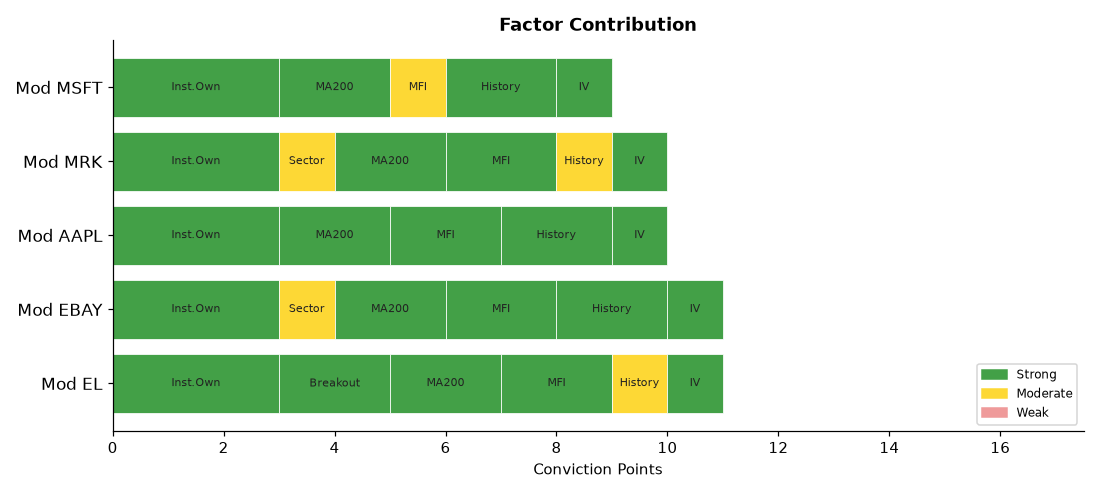
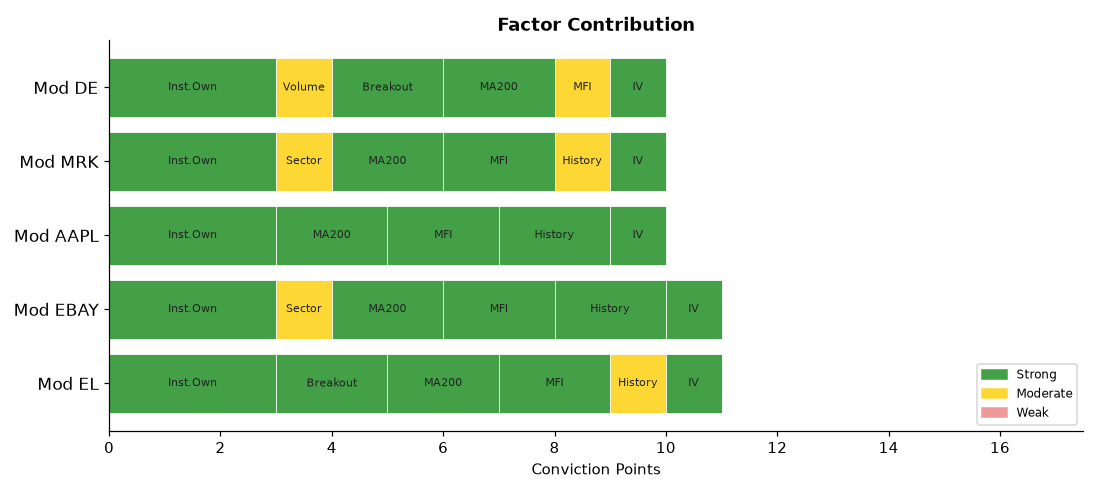
deploy: b7fadf5b06deb90e7ebb92f278722414bdd9750d

diff --git a/index.html b/index.html
@@ -4,7 +4,7 @@
   <meta charset="UTF-8">
   <meta name="viewport" content="width=device-width,initial-scale=1">
   <meta http-equiv="Cache-Control" content="no-cache,no-store,must-revalidate">
-  <title>Stock Breakout Screener — 2026-08-21 19:21</title>
+  <title>Stock Breakout Screener — 2026-08-21 20:13</title>
   <style>
     *{box-sizing:border-box;margin:0;padding:0}
     body{font-family:'Segoe UI',Arial,sans-serif;background:#f0f2f5;
@@ -34,7 +34,7 @@
 
 <div class="hdr">
   <h1>📈 Stock Breakout Screener</h1>
-  <p>Updated: 2026-08-21 19:21 UTC &nbsp;·&nbsp; Phase: Regular Market Hours &nbsp;·&nbsp;
+  <p>Updated: 2026-08-21 20:13 UTC &nbsp;·&nbsp; Phase: After-Hours (4:00–8:00 PM ET) &nbsp;·&nbsp;
      129 stocks screened &nbsp;·&nbsp; Top 5 by conviction score</p>
 </div>
 
@@ -69,7 +69,7 @@
             </span>
           </div>
           <ul style="margin:0;padding-left:18px;font-size:13px;
-                     color:#333;line-height:1.8"><li style="margin:5px 0"><span style="background:#ffebee;color:#b71c1c;padding:2px 7px;border-radius:4px;font-size:11px;">❌</span> Volume: <b>0.9× average</b> — Above-average activity</li><li style="margin:5px 0"><span style="background:#e8f5e9;color:#2e7d32;padding:2px 7px;border-radius:4px;font-size:11px;">✅</span> Candle: close <b>$100.27</b> vs open <b>$96.75</b> (+3.6%) — regular market close</li><li style="margin:5px 0"><span style="background:#e8f5e9;color:#2e7d32;padding:2px 7px;border-radius:4px;font-size:11px;">✅</span> 200-Day MA: price <b>$100.27</b> vs MA <b>$83.92</b> — <b>✅ Above</b> long-term trend</li><li style="margin:5px 0"><span style="background:#e8f5e9;color:#2e7d32;padding:2px 7px;border-radius:4px;font-size:11px;">✅</span> Inst. ownership: <b>96.3%</b> · MFI: <b>63.4</b> · Market cap: <b>$36.3B</b></li><li style="margin:5px 0"><span style="background:#fffde7;color:#f57f17;padding:2px 7px;border-radius:4px;font-size:11px;">⚠</span> Last similar breakout: <b>Aug 19, 2026</b> → <b>+2.3%</b> over 10 trading days</li></ul>
+                     color:#333;line-height:1.8"><li style="margin:5px 0"><span style="background:#ffebee;color:#b71c1c;padding:2px 7px;border-radius:4px;font-size:11px;">❌</span> Volume: <b>1.1× average</b> — Above-average activity</li><li style="margin:5px 0"><span style="background:#e8f5e9;color:#2e7d32;padding:2px 7px;border-radius:4px;font-size:11px;">✅</span> Candle: close <b>$101.94</b> vs open <b>$96.75</b> (+5.4%) — regular market close</li><li style="margin:5px 0"><span style="background:#e8f5e9;color:#2e7d32;padding:2px 7px;border-radius:4px;font-size:11px;">✅</span> 200-Day MA: price <b>$101.94</b> vs MA <b>$83.93</b> — <b>✅ Above</b> long-term trend</li><li style="margin:5px 0"><span style="background:#e8f5e9;color:#2e7d32;padding:2px 7px;border-radius:4px;font-size:11px;">✅</span> Inst. ownership: <b>96.3%</b> · MFI: <b>64.1</b> · Market cap: <b>N/A</b></li><li style="margin:5px 0"><span style="background:#fffde7;color:#f57f17;padding:2px 7px;border-radius:4px;font-size:11px;">⚠</span> Last similar breakout: <b>Aug 19, 2026</b> → <b>+4.0%</b> over 10 trading days</li></ul>
         </div>
         <div style="background:#fff;border:1px solid #ddd;border-radius:10px;
                     padding:16px 20px;margin-bottom:12px;
@@ -86,7 +86,7 @@
             </span>
           </div>
           <ul style="margin:0;padding-left:18px;font-size:13px;
-                     color:#333;line-height:1.8"><li style="margin:5px 0"><span style="background:#ffebee;color:#b71c1c;padding:2px 7px;border-radius:4px;font-size:11px;">❌</span> Volume: <b>0.6× average</b> — Above-average activity</li><li style="margin:5px 0"><span style="background:#ffebee;color:#b71c1c;padding:2px 7px;border-radius:4px;font-size:11px;">❌</span> Candle: close <b>$104.68</b> vs open <b>$105.62</b> (-0.9%) — regular market close</li><li style="margin:5px 0"><span style="background:#e8f5e9;color:#2e7d32;padding:2px 7px;border-radius:4px;font-size:11px;">✅</span> 200-Day MA: price <b>$104.68</b> vs MA <b>$104.04</b> — <b>✅ Above</b> long-term trend</li><li style="margin:5px 0"><span style="background:#e8f5e9;color:#2e7d32;padding:2px 7px;border-radius:4px;font-size:11px;">✅</span> Inst. ownership: <b>95.9%</b> · MFI: <b>62.3</b> · Market cap: <b>$46.6B</b></li><li style="margin:5px 0"><span style="background:#e8f5e9;color:#2e7d32;padding:2px 7px;border-radius:4px;font-size:11px;">✅</span> Last similar breakout: <b>Apr 30, 2026</b> → <b>+9.4%</b> over 10 trading days</li></ul>
+                     color:#333;line-height:1.8"><li style="margin:5px 0"><span style="background:#ffebee;color:#b71c1c;padding:2px 7px;border-radius:4px;font-size:11px;">❌</span> Volume: <b>0.8× average</b> — Above-average activity</li><li style="margin:5px 0"><span style="background:#ffebee;color:#b71c1c;padding:2px 7px;border-radius:4px;font-size:11px;">❌</span> Candle: close <b>$104.13</b> vs open <b>$105.62</b> (-1.4%) — regular market close</li><li style="margin:5px 0"><span style="background:#e8f5e9;color:#2e7d32;padding:2px 7px;border-radius:4px;font-size:11px;">✅</span> 200-Day MA: price <b>$104.13</b> vs MA <b>$104.03</b> — <b>✅ Above</b> long-term trend</li><li style="margin:5px 0"><span style="background:#e8f5e9;color:#2e7d32;padding:2px 7px;border-radius:4px;font-size:11px;">✅</span> Inst. ownership: <b>95.9%</b> · MFI: <b>62.9</b> · Market cap: <b>$46.3B</b></li><li style="margin:5px 0"><span style="background:#e8f5e9;color:#2e7d32;padding:2px 7px;border-radius:4px;font-size:11px;">✅</span> Last similar breakout: <b>Apr 30, 2026</b> → <b>+9.4%</b> over 10 trading days</li></ul>
         </div>
         <div style="background:#fff;border:1px solid #ddd;border-radius:10px;
                     padding:16px 20px;margin-bottom:12px;
@@ -103,7 +103,7 @@
             </span>
           </div>
           <ul style="margin:0;padding-left:18px;font-size:13px;
-                     color:#333;line-height:1.8"><li style="margin:5px 0"><span style="background:#ffebee;color:#b71c1c;padding:2px 7px;border-radius:4px;font-size:11px;">❌</span> Volume: <b>0.7× average</b> — Above-average activity</li><li style="margin:5px 0"><span style="background:#ffebee;color:#b71c1c;padding:2px 7px;border-radius:4px;font-size:11px;">❌</span> Candle: close <b>$309.26</b> vs open <b>$312.05</b> (-0.9%) — regular market close</li><li style="margin:5px 0"><span style="background:#e8f5e9;color:#2e7d32;padding:2px 7px;border-radius:4px;font-size:11px;">✅</span> 200-Day MA: price <b>$309.26</b> vs MA <b>$288.65</b> — <b>✅ Above</b> long-term trend</li><li style="margin:5px 0"><span style="background:#e8f5e9;color:#2e7d32;padding:2px 7px;border-radius:4px;font-size:11px;">✅</span> Inst. ownership: <b>66.4%</b> · MFI: <b>61.2</b> · Market cap: <b>$4514.3B</b></li><li style="margin:5px 0"><span style="background:#e8f5e9;color:#2e7d32;padding:2px 7px;border-radius:4px;font-size:11px;">✅</span> Last similar breakout: <b>Jun 26, 2026</b> → <b>+11.8%</b> over 10 trading days</li></ul>
+                     color:#333;line-height:1.8"><li style="margin:5px 0"><span style="background:#ffebee;color:#b71c1c;padding:2px 7px;border-radius:4px;font-size:11px;">❌</span> Volume: <b>0.8× average</b> — Above-average activity</li><li style="margin:5px 0"><span style="background:#ffebee;color:#b71c1c;padding:2px 7px;border-radius:4px;font-size:11px;">❌</span> Candle: close <b>$309.35</b> vs open <b>$312.05</b> (-0.9%) — regular market close</li><li style="margin:5px 0"><span style="background:#e8f5e9;color:#2e7d32;padding:2px 7px;border-radius:4px;font-size:11px;">✅</span> 200-Day MA: price <b>$309.35</b> vs MA <b>$288.65</b> — <b>✅ Above</b> long-term trend</li><li style="margin:5px 0"><span style="background:#e8f5e9;color:#2e7d32;padding:2px 7px;border-radius:4px;font-size:11px;">✅</span> Inst. ownership: <b>66.4%</b> · MFI: <b>60.3</b> · Market cap: <b>$4514.7B</b></li><li style="margin:5px 0"><span style="background:#e8f5e9;color:#2e7d32;padding:2px 7px;border-radius:4px;font-size:11px;">✅</span> Last similar breakout: <b>Jun 26, 2026</b> → <b>+11.8%</b> over 10 trading days</li></ul>
         </div>
         <div style="background:#fff;border:1px solid #ddd;border-radius:10px;
                     padding:16px 20px;margin-bottom:12px;
@@ -120,7 +120,7 @@
             </span>
           </div>
           <ul style="margin:0;padding-left:18px;font-size:13px;
-                     color:#333;line-height:1.8"><li style="margin:5px 0"><span style="background:#ffebee;color:#b71c1c;padding:2px 7px;border-radius:4px;font-size:11px;">❌</span> Volume: <b>1.0× average</b> — Above-average activity</li><li style="margin:5px 0"><span style="background:#ffebee;color:#b71c1c;padding:2px 7px;border-radius:4px;font-size:11px;">❌</span> Candle: close <b>$153.31</b> vs open <b>$149.12</b> (+2.8%) — regular market close</li><li style="margin:5px 0"><span style="background:#e8f5e9;color:#2e7d32;padding:2px 7px;border-radius:4px;font-size:11px;">✅</span> 200-Day MA: price <b>$153.31</b> vs MA <b>$120.66</b> — <b>✅ Above</b> long-term trend</li><li style="margin:5px 0"><span style="background:#e8f5e9;color:#2e7d32;padding:2px 7px;border-radius:4px;font-size:11px;">✅</span> Inst. ownership: <b>82.7%</b> · MFI: <b>77.0</b> · Market cap: <b>$378.2B</b></li><li style="margin:5px 0"><span style="background:#fffde7;color:#f57f17;padding:2px 7px;border-radius:4px;font-size:11px;">⚠</span> Last similar breakout: <b>Aug 19, 2026</b> → <b>+0.7%</b> over 10 trading days</li></ul>
+                     color:#333;line-height:1.8"><li style="margin:5px 0"><span style="background:#ffebee;color:#b71c1c;padding:2px 7px;border-radius:4px;font-size:11px;">❌</span> Volume: <b>1.1× average</b> — Above-average activity</li><li style="margin:5px 0"><span style="background:#ffebee;color:#b71c1c;padding:2px 7px;border-radius:4px;font-size:11px;">❌</span> Candle: close <b>$152.52</b> vs open <b>$149.12</b> (+2.3%) — regular market close</li><li style="margin:5px 0"><span style="background:#e8f5e9;color:#2e7d32;padding:2px 7px;border-radius:4px;font-size:11px;">✅</span> 200-Day MA: price <b>$152.52</b> vs MA <b>$120.66</b> — <b>✅ Above</b> long-term trend</li><li style="margin:5px 0"><span style="background:#e8f5e9;color:#2e7d32;padding:2px 7px;border-radius:4px;font-size:11px;">✅</span> Inst. ownership: <b>82.7%</b> · MFI: <b>77.3</b> · Market cap: <b>$376.3B</b></li><li style="margin:5px 0"><span style="background:#fffde7;color:#f57f17;padding:2px 7px;border-radius:4px;font-size:11px;">⚠</span> Last similar breakout: <b>Aug 19, 2026</b> → <b>+0.2%</b> over 10 trading days</li></ul>
         </div>
         <div style="background:#fff;border:1px solid #ddd;border-radius:10px;
                     padding:16px 20px;margin-bottom:12px;
@@ -128,16 +128,16 @@
           <div style="display:flex;align-items:center;gap:10px;
                       flex-wrap:wrap;margin-bottom:10px">
             <span style="font-size:22px">🟡</span>
-            <span style="font-size:19px;font-weight:700">5. MSFT</span>
-            <span style="font-size:12px;color:#666">Technology</span>
+            <span style="font-size:19px;font-weight:700">5. DE</span>
+            <span style="font-size:12px;color:#666">Industrials</span>
             <span style="margin-left:auto;background:#1a237e;color:#fff;
                          padding:3px 12px;border-radius:12px;
                          font-size:13px;font-weight:600">
-              9/17
+              10/17
             </span>
           </div>
           <ul style="margin:0;padding-left:18px;font-size:13px;
-                     color:#333;line-height:1.8"><li style="margin:5px 0"><span style="background:#ffebee;color:#b71c1c;padding:2px 7px;border-radius:4px;font-size:11px;">❌</span> Volume: <b>0.4× average</b> — Above-average activity</li><li style="margin:5px 0"><span style="background:#ffebee;color:#b71c1c;padding:2px 7px;border-radius:4px;font-size:11px;">❌</span> Candle: close <b>$483.13</b> vs open <b>$479.88</b> (+0.7%) — regular market close</li><li style="margin:5px 0"><span style="background:#e8f5e9;color:#2e7d32;padding:2px 7px;border-radius:4px;font-size:11px;">✅</span> 200-Day MA: price <b>$483.13</b> vs MA <b>$409.33</b> — <b>✅ Above</b> long-term trend</li><li style="margin:5px 0"><span style="background:#e8f5e9;color:#2e7d32;padding:2px 7px;border-radius:4px;font-size:11px;">✅</span> Inst. ownership: <b>75.9%</b> · MFI: <b>54.2</b> · Market cap: <b>$3587.5B</b></li><li style="margin:5px 0"><span style="background:#e8f5e9;color:#2e7d32;padding:2px 7px;border-radius:4px;font-size:11px;">✅</span> Last similar breakout: <b>Jul 30, 2026</b> → <b>+10.1%</b> over 10 trading days</li></ul>
+                     color:#333;line-height:1.8"><li style="margin:5px 0"><span style="background:#fffde7;color:#f57f17;padding:2px 7px;border-radius:4px;font-size:11px;">⚠</span> Volume: <b>1.7× average</b> — Above-average activity</li><li style="margin:5px 0"><span style="background:#e8f5e9;color:#2e7d32;padding:2px 7px;border-radius:4px;font-size:11px;">✅</span> Candle: close <b>$647.73</b> vs open <b>$623.26</b> (+3.9%) — regular market close</li><li style="margin:5px 0"><span style="background:#e8f5e9;color:#2e7d32;padding:2px 7px;border-radius:4px;font-size:11px;">✅</span> 200-Day MA: price <b>$647.73</b> vs MA <b>$589.02</b> — <b>✅ Above</b> long-term trend</li><li style="margin:5px 0"><span style="background:#e8f5e9;color:#2e7d32;padding:2px 7px;border-radius:4px;font-size:11px;">✅</span> Inst. ownership: <b>84.6%</b> · MFI: <b>57.8</b> · Market cap: <b>$174.8B</b></li></ul>
         </div>
 
 
@@ -169,35 +169,35 @@
         <tr>
           <td style="font-weight:700;text-align:left;padding-left:10px">
             🟡 EL</td>
-          <td style="background:#ffcdd2">0.9×</td>
-          <td style="background:#c8e6c9">+3.6%</td>
+          <td style="background:#ffcdd2">1.1×</td>
+          <td style="background:#c8e6c9">+5.4%</td>
           <td style="background:#c8e6c9">
             ▲ Above</td>
           <td style="background:#c8e6c9">
             96.3%</td>
           <td style="background:#c8e6c9">
-            63.4</td>
+            64.1</td>
           <td style="background:#ffcdd2">Consumer Stpl</td>
           <td style="background:#c8e6c9">
-            209.8%</td>
+            72.0%</td>
           <td style="background:#fff9c4">
-            +2.3%</td>
+            +4.0%</td>
           <td style="font-weight:800;font-size:15px">11/17</td>
         </tr>
         <tr>
           <td style="font-weight:700;text-align:left;padding-left:10px">
             🟡 EBAY</td>
-          <td style="background:#ffcdd2">0.6×</td>
-          <td style="background:#ffcdd2">-0.9%</td>
+          <td style="background:#ffcdd2">0.8×</td>
+          <td style="background:#ffcdd2">-1.4%</td>
           <td style="background:#c8e6c9">
             ▲ Above</td>
           <td style="background:#c8e6c9">
             95.9%</td>
           <td style="background:#c8e6c9">
-            62.3</td>
+            62.9</td>
           <td style="background:#fff9c4">Consumer Disc</td>
           <td style="background:#c8e6c9">
-            207.5%</td>
+            215.2%</td>
           <td style="background:#c8e6c9">
             +9.4%</td>
           <td style="font-weight:800;font-size:15px">11/17</td>
@@ -205,17 +205,17 @@
         <tr>
           <td style="font-weight:700;text-align:left;padding-left:10px">
             🟡 AAPL</td>
-          <td style="background:#ffcdd2">0.7×</td>
+          <td style="background:#ffcdd2">0.8×</td>
           <td style="background:#ffcdd2">-0.9%</td>
           <td style="background:#c8e6c9">
             ▲ Above</td>
           <td style="background:#c8e6c9">
             66.4%</td>
           <td style="background:#c8e6c9">
-            61.2</td>
+            60.3</td>
           <td style="background:#ffcdd2">Technology</td>
           <td style="background:#c8e6c9">
-            233.5%</td>
+            252.5%</td>
           <td style="background:#c8e6c9">
             +11.8%</td>
           <td style="font-weight:800;font-size:15px">10/17</td>
@@ -223,38 +223,38 @@
         <tr>
           <td style="font-weight:700;text-align:left;padding-left:10px">
             🟡 MRK</td>
-          <td style="background:#ffcdd2">1.0×</td>
-          <td style="background:#ffcdd2">+2.8%</td>
+          <td style="background:#ffcdd2">1.1×</td>
+          <td style="background:#ffcdd2">+2.3%</td>
           <td style="background:#c8e6c9">
             ▲ Above</td>
           <td style="background:#c8e6c9">
             82.7%</td>
           <td style="background:#c8e6c9">
-            77.0</td>
+            77.3</td>
           <td style="background:#fff9c4">Healthcare</td>
           <td style="background:#c8e6c9">
-            142.8%</td>
+            226.6%</td>
           <td style="background:#fff9c4">
-            +0.7%</td>
+            +0.2%</td>
           <td style="font-weight:800;font-size:15px">10/17</td>
         </tr>
         <tr>
           <td style="font-weight:700;text-align:left;padding-left:10px">
-            🟡 MSFT</td>
-          <td style="background:#ffcdd2">0.4×</td>
-          <td style="background:#ffcdd2">+0.7%</td>
+            🟡 DE</td>
+          <td style="background:#fff9c4">1.7×</td>
+          <td style="background:#c8e6c9">+3.9%</td>
           <td style="background:#c8e6c9">
             ▲ Above</td>
           <td style="background:#c8e6c9">
-            75.9%</td>
+            84.6%</td>
           <td style="background:#fff9c4">
-            54.2</td>
-          <td style="background:#ffcdd2">Technology</td>
+            57.8</td>
+          <td style="background:#ffcdd2">Industrials</td>
           <td style="background:#c8e6c9">
-            206.4%</td>
-          <td style="background:#c8e6c9">
-            +10.1%</td>
-          <td style="font-weight:800;font-size:15px">9/17</td>
+            116.6%</td>
+          <td style="background:#ffcdd2">
+            N/A</td>
+          <td style="font-weight:800;font-size:15px">10/17</td>
         </tr>
 </table>
 </div>
@@ -278,57 +278,57 @@
         <tr>
           <td style="text-align:left;padding-left:10px;font-weight:600">
             #1 Materials</td>
-          <td style="background:#e8f5e9;color:#2e7d32;font-weight:700">+2.09%</td>
+          <td style="background:#e8f5e9;color:#2e7d32;font-weight:700">+2.10%</td>
         </tr>
         <tr>
           <td style="text-align:left;padding-left:10px;font-weight:600">
             #2 Healthcare</td>
-          <td style="background:#e8f5e9;color:#2e7d32;font-weight:700">+1.52%</td>
+          <td style="background:#e8f5e9;color:#2e7d32;font-weight:700">+1.29%</td>
         </tr>
         <tr>
           <td style="text-align:left;padding-left:10px;font-weight:600">
             #3 Consumer Disc</td>
-          <td style="background:#e8f5e9;color:#2e7d32;font-weight:700">+1.20%</td>
+          <td style="background:#e8f5e9;color:#2e7d32;font-weight:700">+1.13%</td>
         </tr>
         <tr>
           <td style="text-align:left;padding-left:10px;font-weight:600">
             #4 Financials</td>
-          <td style="background:#e8f5e9;color:#2e7d32;font-weight:700">+0.97%</td>
+          <td style="background:#e8f5e9;color:#2e7d32;font-weight:700">+0.93%</td>
         </tr>
         <tr>
           <td style="text-align:left;padding-left:10px;font-weight:600">
-            #5 Comm. Services</td>
-          <td style="background:#e8f5e9;color:#2e7d32;font-weight:700">+0.70%</td>
+            #5 Consumer Stpl</td>
+          <td style="background:#e8f5e9;color:#2e7d32;font-weight:700">+0.79%</td>
         </tr>
         <tr>
           <td style="text-align:left;padding-left:10px;font-weight:600">
-            #6 Consumer Stpl</td>
-          <td style="background:#e8f5e9;color:#2e7d32;font-weight:700">+0.53%</td>
+            #6 Comm. Services</td>
+          <td style="background:#e8f5e9;color:#2e7d32;font-weight:700">+0.64%</td>
         </tr>
         <tr>
           <td style="text-align:left;padding-left:10px;font-weight:600">
             #7 Industrials</td>
-          <td style="background:#e8f5e9;color:#2e7d32;font-weight:700">+0.39%</td>
+          <td style="background:#e8f5e9;color:#2e7d32;font-weight:700">+0.26%</td>
         </tr>
         <tr>
           <td style="text-align:left;padding-left:10px;font-weight:600">
             #8 Technology</td>
-          <td style="background:#e8f5e9;color:#2e7d32;font-weight:700">+0.16%</td>
+          <td style="background:#e8f5e9;color:#2e7d32;font-weight:700">+0.14%</td>
         </tr>
         <tr>
           <td style="text-align:left;padding-left:10px;font-weight:600">
             #9 Real Estate</td>
-          <td style="background:#ffebee;color:#c62828;font-weight:700">+0.00%</td>
+          <td style="background:#ffebee;color:#c62828;font-weight:700">-0.02%</td>
         </tr>
         <tr>
           <td style="text-align:left;padding-left:10px;font-weight:600">
             #10 Energy</td>
-          <td style="background:#ffebee;color:#c62828;font-weight:700">-0.07%</td>
+          <td style="background:#ffebee;color:#c62828;font-weight:700">-0.20%</td>
         </tr>
         <tr>
           <td style="text-align:left;padding-left:10px;font-weight:600">
             #11 Utilities</td>
-          <td style="background:#ffebee;color:#c62828;font-weight:700">-2.19%</td>
+          <td style="background:#ffebee;color:#c62828;font-weight:700">-2.31%</td>
         </tr>
     </table>
   </div>
@@ -367,7 +367,7 @@
         <li><b>Scoring weights:</b>
             Inst.Own(3) · Sector(3) · Volume(2) · Breakout(2) ·
             MA200(2) · MFI(2) · History(2) · IV(1) = 17pts max</li>
-        <li><b>Run time:</b> 2026-08-21 19:21 UTC — Market phase: Regular Market Hours</li>
+        <li><b>Run time:</b> 2026-08-21 20:13 UTC — Market phase: After-Hours (4:00–8:00 PM ET)</li>
       </ul>
     </div>
 
